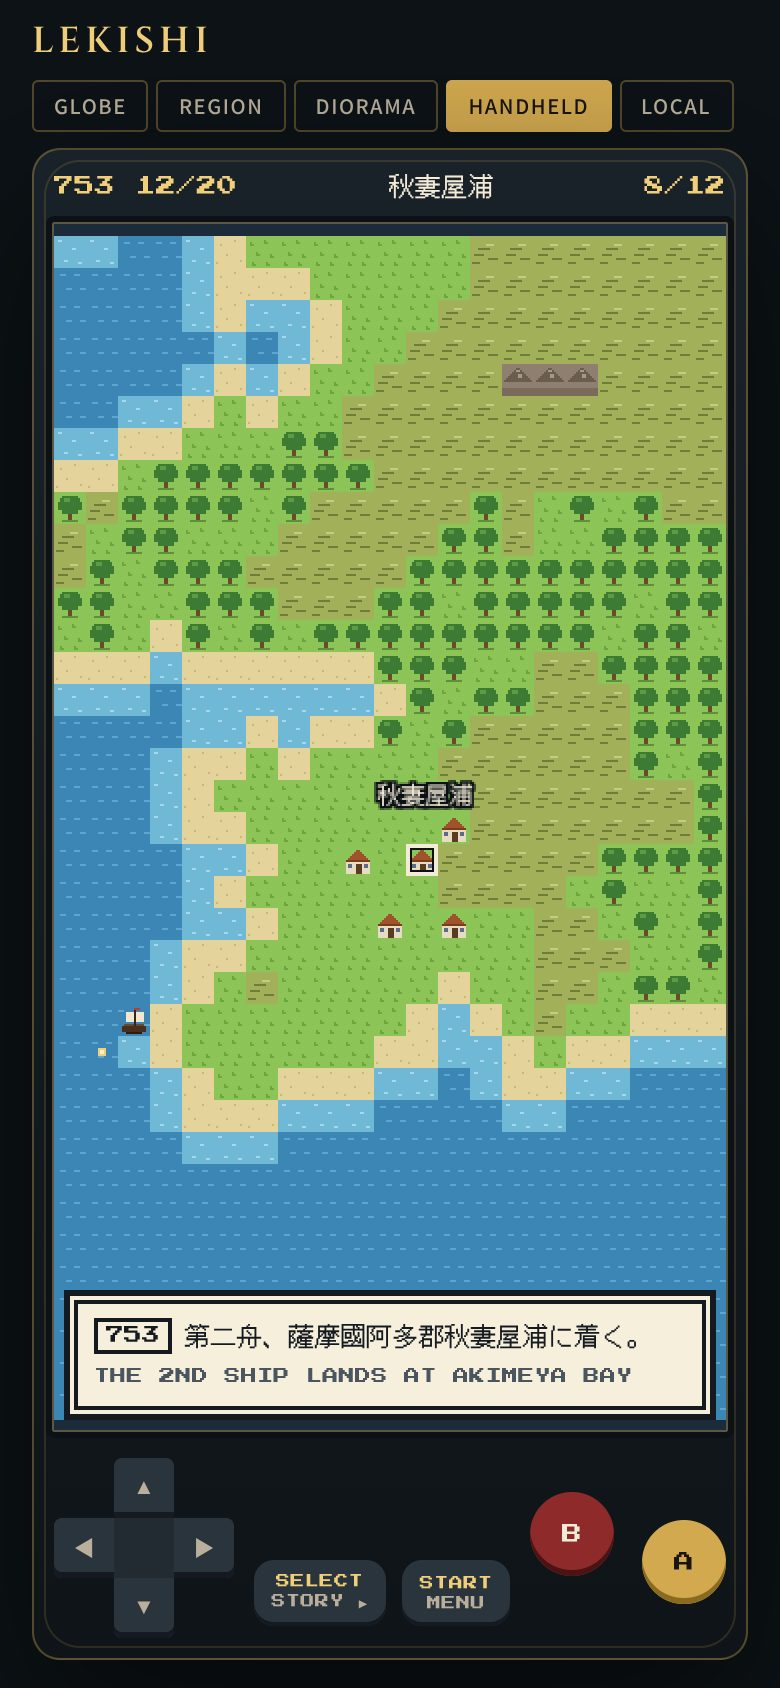
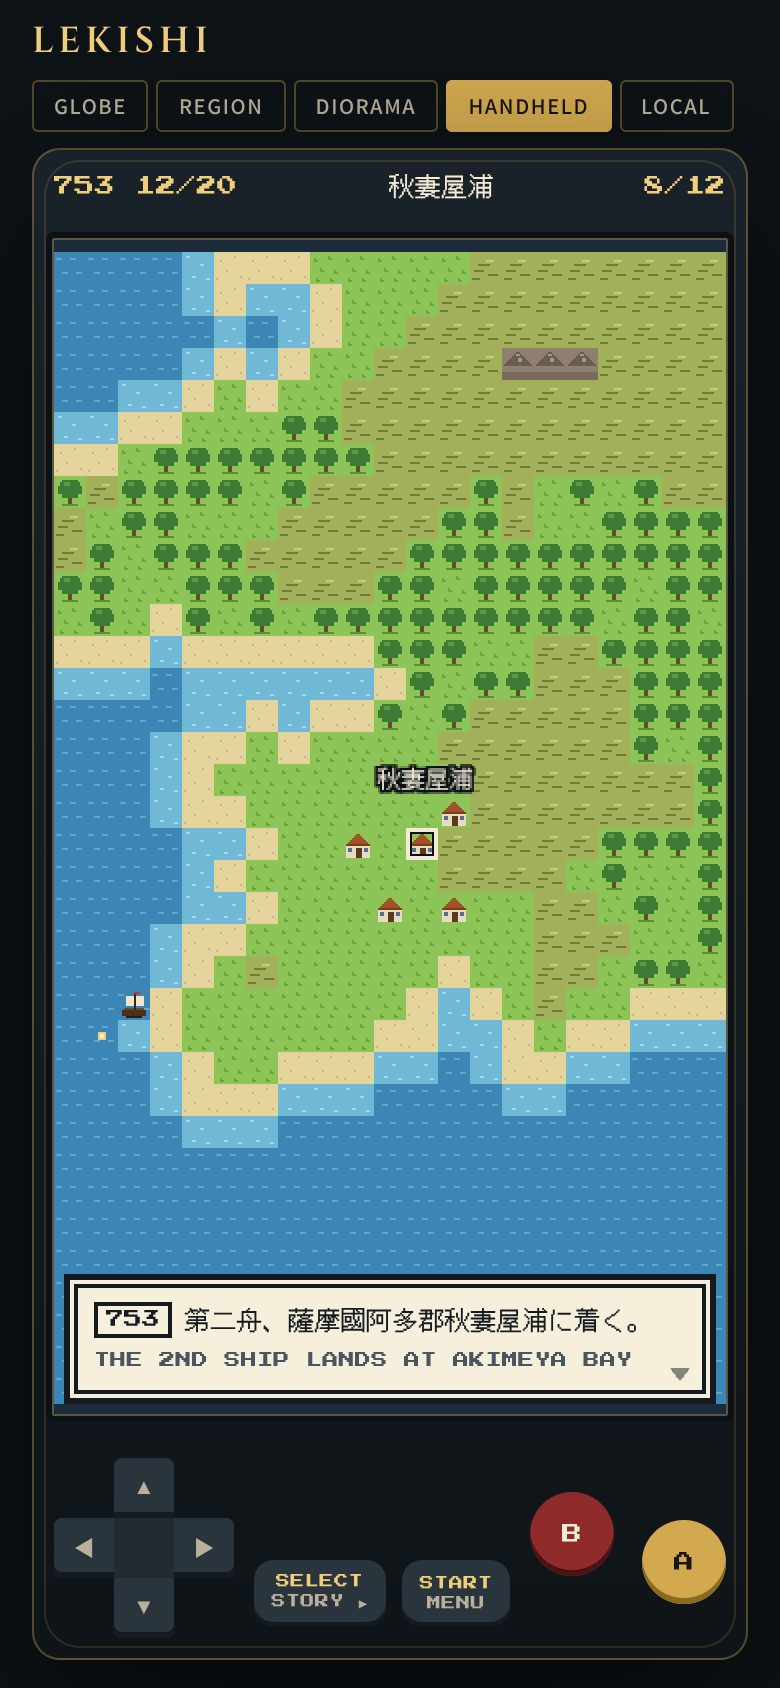
docs(rfd): fill large screens in the hero mock's 2D tile mode
On tablet and desktop the tile map spans the stage with the story
journal on the left, the event card with its source and image frame on
the right, and the controls with key hints under the map; the phone
keeps the device layout.

Claude-Session: https://claude.ai/code/session_0184q2Vpm5iKSftnAWfwy2P6

Changed region(s): [[0.0615, 0.1232, 0.9538, 0.7085], [0.0615, 0.7393, 0.9538, 0.8626]]

diff --git a/rfd/0001/hero/template.html b/rfd/0001/hero/template.html
@@ -186,8 +186,29 @@ body{margin:0;background:var(--bg);color:var(--ink);font-family:var(--ui);font-s
 .honest{position:absolute;left:50%;bottom:14px;transform:translateX(-50%);background:rgba(10,14,18,.78);border:1px solid var(--line);border-radius:3px;padding:6px 12px;font:11px var(--ui);color:var(--ink-dim);max-width:min(560px,52%);text-align:center}
 .honest b{color:var(--ink);font-weight:500}
 /* handheld tier: a top-down tile map in a device frame, the phone's own register */
-.hh-wrap{display:flex;justify-content:center;padding:12px 0 6px}
-.device{width:min(100%,400px);height:780px;display:flex;flex-direction:column;background:linear-gradient(#1a2229,#0e1418);border:1px solid var(--line);border-radius:22px;padding:10px 10px 12px;box-shadow:0 30px 80px rgba(0,0,0,.55);position:relative}
+.hh-wrap{display:flex;justify-content:center;padding:0}
+.device{width:100%;height:780px;display:grid;grid-template-columns:232px minmax(0,1fr) 300px;grid-template-rows:auto minmax(0,1fr) auto;gap:8px 10px;background:linear-gradient(#1a2229,#0e1418);border:1px solid var(--line);border-radius:6px;padding:10px 12px 12px;box-shadow:0 30px 80px rgba(0,0,0,.55);position:relative}
+.device::before{border-radius:3px}
+.hh-top{grid-column:1/-1}
+.hh-journal{grid-row:2/4;grid-column:1} .screen-hh{grid-row:2;grid-column:2} .hh-card{grid-row:2/4;grid-column:3} .pads{grid-row:3;grid-column:2}
+.pbox{background:#f5efdc;color:#141a1f;border:3px solid #141a1f;box-shadow:inset 0 0 0 2px #f5efdc,inset 0 0 0 4px #141a1f;padding:12px 14px;font:12px/1.5 "DotGothic16","Press Start 2P",monospace;overflow:auto;min-height:0}
+.pbox h4{margin:0 0 8px;font:9px "Press Start 2P",monospace;color:#4a5560;letter-spacing:.04em}
+.pbox h4 span{font:13px "DotGothic16",monospace;color:#141a1f;margin-right:8px}
+.jstep{display:block;width:100%;appearance:none;border:0;background:transparent;text-align:left;font:12px/1.35 "DotGothic16",monospace;color:#141a1f;padding:4px 2px 4px 16px;position:relative;cursor:pointer}
+.jstep small{display:block;font:7px "Press Start 2P",monospace;color:#6a7480;margin-top:2px}
+.jstep[aria-current="true"]{background:#141a1f;color:#f5efdc} .jstep[aria-current="true"] small{color:#c9c0a8}
+.jstep[aria-current="true"]::before{content:"▶";position:absolute;left:3px;top:5px;font-size:9px}
+.jstep.off{opacity:.55}
+.hh-card .tag{display:inline-block;border:2px solid #141a1f;padding:0 4px;font:9px "Press Start 2P",monospace;margin-right:6px;vertical-align:1px}
+.hh-card h3{margin:6px 0 2px;font:16px/1.3 "DotGothic16",monospace}
+.hh-card .en{font:8px/1.6 "Press Start 2P",monospace;color:#4a5560}
+.hh-card .pic{margin:10px 0;height:96px;border:2px solid #141a1f;background:repeating-linear-gradient(135deg,#e6dcc2 0 3px,#f5efdc 3px 9px);display:grid;place-items:center;font:7px "Press Start 2P",monospace;color:#6a7480;text-align:center;line-height:1.8}
+.hh-card .q{border-left:3px solid #141a1f;padding:4px 8px;margin:8px 0;font-size:12px}
+.hh-card .q small{display:block;font:7px "Press Start 2P",monospace;color:#6a7480;margin-top:4px}
+.hh-card dl{display:grid;grid-template-columns:auto 1fr;gap:3px 10px;margin:8px 0 0;font-size:11px} .hh-card dt{color:#6a7480} .hh-card dd{margin:0}
+.hh-card ul{margin:4px 0 0;padding:0;list-style:none;font-size:11px} .hh-card li{padding:3px 0;border-top:1px dashed #b9b09a}
+.keys{display:flex;gap:10px;align-items:center;font:7px/1.6 "Press Start 2P",monospace;color:var(--ink-faint);letter-spacing:.04em}
+.keys b{color:var(--ink-dim);font-weight:400}
 .device::before{content:"";position:absolute;inset:5px;border:1px solid rgba(210,169,79,.16);border-radius:18px;pointer-events:none}
 .hh-top{display:flex;justify-content:space-between;align-items:center;font:10px "Press Start 2P","DotGothic16",monospace;color:var(--gold-bright);padding:2px 4px 8px;letter-spacing:.02em}
 .hh-top .jp{font-family:"DotGothic16","Press Start 2P",monospace;font-size:13px;color:var(--ink)}
@@ -220,7 +241,8 @@ body{margin:0;background:var(--bg);color:var(--ink);font-family:var(--ui);font-s
   .tab{padding:7px 10px;font-size:10px;letter-spacing:.08em;white-space:nowrap;flex:none}
   .tab .long{display:none} .tab .short{display:inline}
   .foot,.hh-note{display:none}
-  .hh-wrap{padding:0} .device{width:100%;height:calc(100dvh - 88px);min-height:520px;padding:6px 6px 10px;border-radius:14px}
+  .device{display:flex;flex-direction:column;width:100%;height:calc(100dvh - 88px);min-height:520px;padding:6px 6px 10px;border-radius:14px}
+  .hh-journal,.hh-card,.keys{display:none}
   .hh-top{padding:2px 4px 6px}
   .journal,.pennants{display:none}
   .civbar{height:32px;padding:0 10px}
@@ -365,18 +387,21 @@ body{margin:0;background:var(--bg);color:var(--ink);font-family:var(--ui);font-s
   <section class="screen" id="screen-handheld" role="tabpanel" hidden>
     <div class="hh-wrap">
       <div class="device">
-        <div class="hh-top"><span>753 12/20</span><span class="jp" id="hh-place">秋妻屋浦</span><span>8/12</span></div>
+        <div class="hh-top"><span>753 12/20</span><span class="jp" id="hh-place">秋妻屋浦</span><span id="hh-step">8/12</span></div>
+        <nav class="pbox hh-journal" aria-label="Story"><h4><span>物語</span>STORY · 遣唐使</h4><div id="hh-journal"></div></nav>
+        <aside class="pbox hh-card" id="hh-card" aria-label="Selected event"></aside>
         <div class="screen-hh"><canvas id="hh-canvas" width="384" height="320"></canvas>
           <div class="dlg" id="hh-dlg"><span class="tag">753</span>第二舟、薩摩國阿多郡秋妻屋浦に着く。<span class="en">THE 2ND SHIP LANDS AT AKIMEYA BAY</span><span class="arrow">▼</span></div>
         </div>
         <div class="pads">
           <div class="dpad" role="group" aria-label="Move the cursor"><button type="button" class="u" data-dir="0,-1" aria-label="Up">▲</button><button type="button" class="l" data-dir="-1,0" aria-label="Left">◀</button><button type="button" class="c" tabindex="-1" aria-hidden="true"></button><button type="button" class="r" data-dir="1,0" aria-label="Right">▶</button><button type="button" class="d" data-dir="0,1" aria-label="Down">▼</button></div>
           <div class="ss"><button type="button" id="hh-select"><b>SELECT</b>STORY ▶</button><button type="button" id="hh-start"><b>START</b>MENU</button></div>
+          <div class="keys"><span><b>↑↓←→</b> MOVE</span><span><b>ENTER</b> A</span><span><b>ESC</b> B</span><span><b>TAB</b> SELECT</span><span><b>M</b> START</span></div>
           <div class="ab"><button type="button" class="b" id="hh-b" aria-label="Close">B</button><button type="button" class="a" id="hh-a" aria-label="Read">A</button></div>
         </div>
       </div>
     </div>
-    <p class="hh-note"><b>The phone's own tier.</b> The same terrain in 16-pixel tiles at about 260 m, drawn with PixiJS; sprites at the attested places; dotted tiles for the schematic path. D-pad moves, A reads, B closes, Select steps the story, Start opens the menu. Arrow keys, Enter, Escape, Tab, and M on a keyboard.</p>
+    <p class="hh-note"><b>The 2D tile mode.</b> On tablet and desktop it fills the stage with the journal and the card beside the map; on a phone it is the device alone. The same terrain in 16-pixel tiles at about 260 m, drawn with PixiJS; sprites at the attested places; dotted tiles for the schematic path. D-pad moves, A reads, B closes, Select steps the story, Start opens the menu. Arrow keys, Enter, Escape, Tab, and M on a keyboard.</p>
   </section>
 
   <!-- ===== LOCAL ===== -->
@@ -775,7 +800,7 @@ function drawHandheld(){
     for(const [t,c,r] of labels){ const txt=new PIXI.Text(t,{fontFamily:'"DotGothic16","Press Start 2P",monospace',fontSize:12,fill:"#f3ead7",stroke:"#0b1114",strokeThickness:3}); txt.resolution=1; objs.addChild(txt); objects.push({c,r,sp:txt}); }
     const cursor=new PIXI.Sprite(tex[12]); objs.addChild(cursor); objs.sortableChildren=true; cursor.zIndex=10;
     let cur=[bay[0],bay[1]]; let cam=[0,0]; let frame=0;
-    const events={[bay.join()]:{p:"秋妻屋浦",jp:"第二舟、薩摩國阿多郡秋妻屋浦に着く。",en:"THE 2ND SHIP LANDS AT AKIMEYA BAY",tag:"753"},[ei.join()]:{p:"石籬浦",jp:"第四舟は石籬浦に着いたと大宰府が報ず。",en:"THE 4TH SHIP MADE LAND AT ISHIGAKI",tag:"754"},[shipT.join()]:{p:"第二舟",jp:"鑒眞、大伴古麻呂らを乗せた第二舟。益救島より南風に乗る。",en:"JIANZHEN'S SHIP, FROM YAKU ON A SOUTH WIND",tag:"12/20"},[kaimon.join()]:{p:"開聞岳",jp:"開聞岳。薩摩の南端に立つ火山。地名の目印。",en:"MT KAIMON · A LANDMARK, NOT AN EVENT",tag:"地"}};
+    const events2={[bay.join()]:{p:"秋妻屋浦",jp:"第二舟、薩摩國阿多郡秋妻屋浦に着く。",en:"THE 2ND SHIP LANDS AT AKIMEYA BAY",tag:"753"},[ei.join()]:{p:"石籬浦",jp:"第四舟は石籬浦に着いたと大宰府が報ず。",en:"THE 4TH SHIP MADE LAND AT ISHIGAKI",tag:"754"},[shipT.join()]:{p:"第二舟",jp:"鑒眞、大伴古麻呂らを乗せた第二舟。益救島より南風に乗る。",en:"JIANZHEN'S SHIP, FROM YAKU ON A SOUTH WIND",tag:"12/20"},[kaimon.join()]:{p:"開聞岳",jp:"開聞岳。薩摩の南端に立つ火山。地名の目印。",en:"MT KAIMON · A LANDMARK, NOT AN EVENT",tag:"地"}};
     const desc={[T.DEEP]:"深い海。",[T.WATER]:"海。",[T.SHALLOW]:"浅瀬。",[T.SAND]:"浜。",[T.GRASS]:"草地。",[T.FOREST]:"林。",[T.HILL]:"丘。",[T.MTN]:"山。",[T.PEAK]:"高い山。"};
     const dlg=document.getElementById("hh-dlg"), placeEl=document.getElementById("hh-place");
     function say(tag,jp,en){ dlg.hidden=false; dlg.innerHTML=`<span class="tag">${tag}</span>${jp}<span class="en">${en}</span><span class="arrow">▼</span>`; }
@@ -784,17 +809,21 @@ function drawHandheld(){
       for(const o of objects){ o.sp.x=(o.c-cam[0])*S; o.sp.y=(o.r-cam[1])*S; o.sp.visible=o.c>=cam[0]-2&&o.c<cam[0]+VW+2&&o.r>=cam[1]-1&&o.r<cam[1]+VH+1; }
       ship.y+=((frame>>4)&1); cursor.x=(cur[0]-cam[0])*S; cursor.y=(cur[1]-cam[1])*S; cursor.visible=((frame>>3)&1)===0||true; }
     const reduce=matchMedia("(prefers-reduced-motion: reduce)").matches; app.ticker.add(()=>{ if(!reduce) frame++; render(); });
-    function move(dx,dy){ cur=[Math.min(cols-1,Math.max(0,cur[0]+dx)),Math.min(rows-1,Math.max(0,cur[1]+dy))]; dlg.hidden=true; const ev=events[cur.join()]; placeEl.textContent=ev?ev.p:desc[t2[cur[1]*cols+cur[0]]]; }
-    function act(){ const ev=events[cur.join()]; if(ev) say(ev.tag,ev.jp,ev.en); else say("?",desc[t2[cur[1]*cols+cur[0]]],"NOTHING RECORDED HERE"); }
+    function move(dx,dy){ cur=[Math.min(cols-1,Math.max(0,cur[0]+dx)),Math.min(rows-1,Math.max(0,cur[1]+dy))]; dlg.hidden=true; const ev=events2[cur.join()]; placeEl.textContent=ev?ev.p:desc[t2[cur[1]*cols+cur[0]]]; }
+    function act(){ const ev=events2[cur.join()]; if(ev) say(ev.tag,ev.jp,ev.en); else say("?",desc[t2[cur[1]*cols+cur[0]]],"NOTHING RECORDED HERE"); }
     document.querySelectorAll(".dpad button[data-dir]").forEach(b=>{ const [dx,dy]=b.dataset.dir.split(",").map(Number); let rep=null; const start=e=>{ e.preventDefault(); move(dx,dy); clearInterval(rep); rep=setInterval(()=>move(dx,dy),140); }; const stop=()=>{ clearInterval(rep); rep=null; }; b.addEventListener("pointerdown",start); b.addEventListener("pointerup",stop); b.addEventListener("pointerleave",stop); b.addEventListener("pointercancel",stop); b.addEventListener("keydown",e=>{ if(e.key==="Enter"||e.key===" "){ e.preventDefault(); move(dx,dy); } }); });
     document.getElementById("hh-a").addEventListener("click",act); document.getElementById("hh-b").addEventListener("click",()=>{ dlg.hidden=true; });
     // Select steps the story: the cursor jumps to the next event tile and reads it. Start opens the menu in the same box.
-    const storyTiles=[shipT,bay,ei]; let storyI=1;
-    function nextStory(){ storyI=(storyI+1)%storyTiles.length; cur=[...storyTiles[storyI]]; const ev=events[cur.join()]; placeEl.textContent=ev.p; say(ev.tag,ev.jp,ev.en); }
+    const stepTile={akimeya:bay,wind:null,yaku:null}; let storyI=events.findIndex(e=>e.id==="akimeya");
+    const jl=document.getElementById("hh-journal"), card=document.getElementById("hh-card"), stepEl=document.getElementById("hh-step");
+    function drawJournal(){ jl.innerHTML=""; events.forEach((e,i)=>{ const b=document.createElement("button"); b.type="button"; b.className="jstep"+(stepTile[e.id]?"":" off"); b.setAttribute("aria-current",i===storyI?"true":"false"); b.innerHTML=`${e.title}<small>${e.d.toUpperCase()}</small>`; b.addEventListener("click",()=>goStep(i)); jl.appendChild(b); }); }
+    function drawCard(){ const e=events[storyI]; const p=e.p?places[e.p]:null; card.innerHTML=`<h4><span>記録</span>EVENT ${storyI+1}/${events.length}</h4><span class="tag">${e.d.split(" · ")[0]}</span><h3>${e.title}</h3><div class="en">${e.en.toUpperCase()}</div><div class="pic">東征伝絵巻<br>LATER DEPICTION · RIGHTS PENDING</div><div class="q">${e.q}<small>${e.src} · ${e.w}</small></div><dl><dt>場所</dt><dd>${p?p.n+" · "+(p.k==="site"?"attested site":"identified locality"):"含元殿 · off this map"}</dd><dt>日付</dt><dd>${e.d} · day precision</dd><dt>人</dt><dd>鑒眞 · 大伴古麻呂</dd></dl><h4 style="margin-top:10px"><span>資料</span>SOURCES</h4><ul><li>唐大和上東征傳 (779) · public domain</li><li>續日本紀 (797) · public domain</li></ul>`; stepEl.textContent=`${storyI+1}/${events.length}`; }
+    function goStep(i){ storyI=i; const e=events[i]; const t=stepTile[e.id]; drawJournal(); drawCard(); if(t){ cur=[...t]; const ev=events2[cur.join()]; placeEl.textContent=ev.p; say(ev.tag,ev.jp,ev.en); } else { placeEl.textContent="地図外"; say(e.d.split(" · ")[0],e.title+"（この地図の外）",e.en.toUpperCase()+" · OUTSIDE THIS MAP"); } }
+    function nextStory(){ goStep((storyI+1)%events.length); }
     function menu(){ say("MENU","▶ 物語 STORY　　資料 SOURCES<br>　 地図 MAP　　　章 ABOUT","B CLOSES · SELECT STEPS THE STORY"); }
     document.getElementById("hh-select").addEventListener("click",nextStory); document.getElementById("hh-start").addEventListener("click",menu);
     window.addEventListener("keydown",ev=>{ if(document.getElementById("screen-handheld").hidden) return; const m={ArrowUp:[0,-1],ArrowDown:[0,1],ArrowLeft:[-1,0],ArrowRight:[1,0]}[ev.key]; if(m){ ev.preventDefault(); move(...m); } else if(ev.key==="Enter"||ev.key===" "||ev.key==="a"){ ev.preventDefault(); act(); } else if(ev.key==="Escape"||ev.key==="b"){ dlg.hidden=true; } else if(ev.key==="Tab"){ ev.preventDefault(); nextStory(); } else if(ev.key==="m"){ menu(); } });
-    render();
+    drawJournal(); drawCard(); render();
   }; img.src="__HEIGHT__";
 }
 
